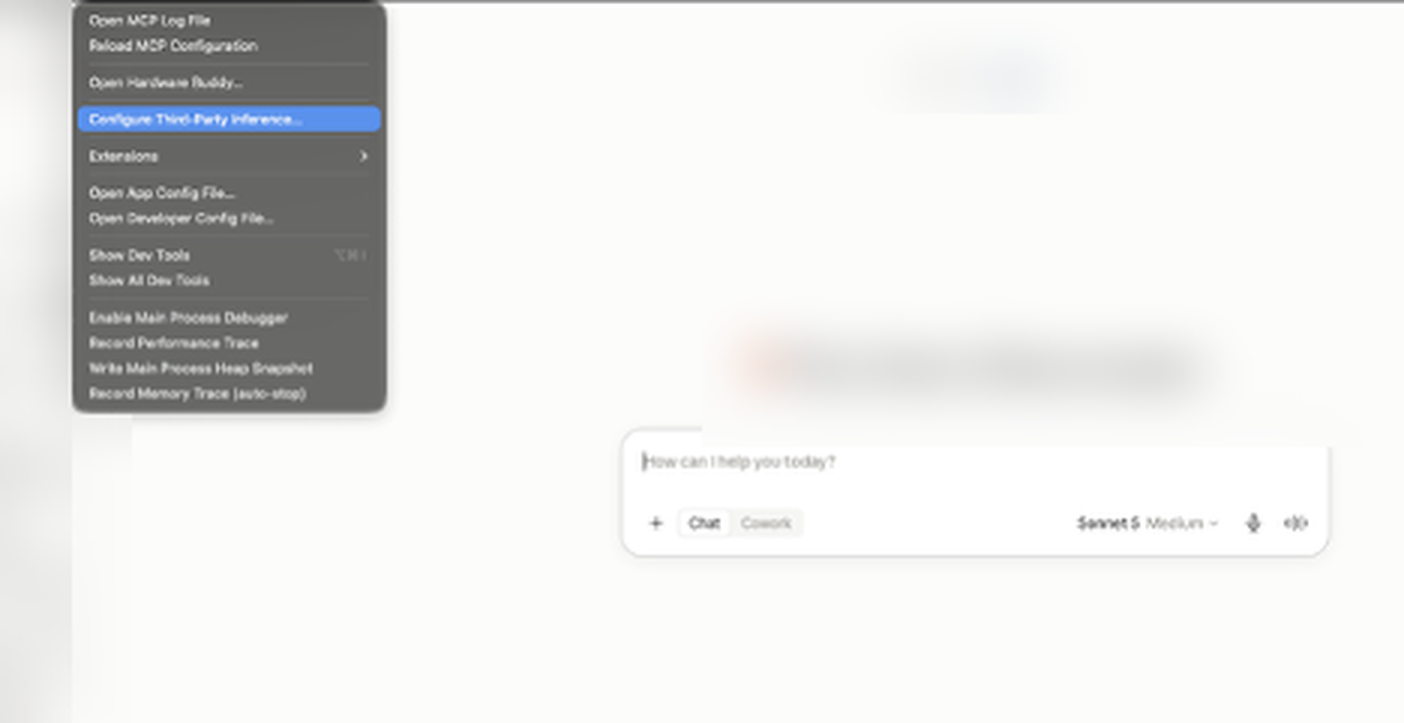
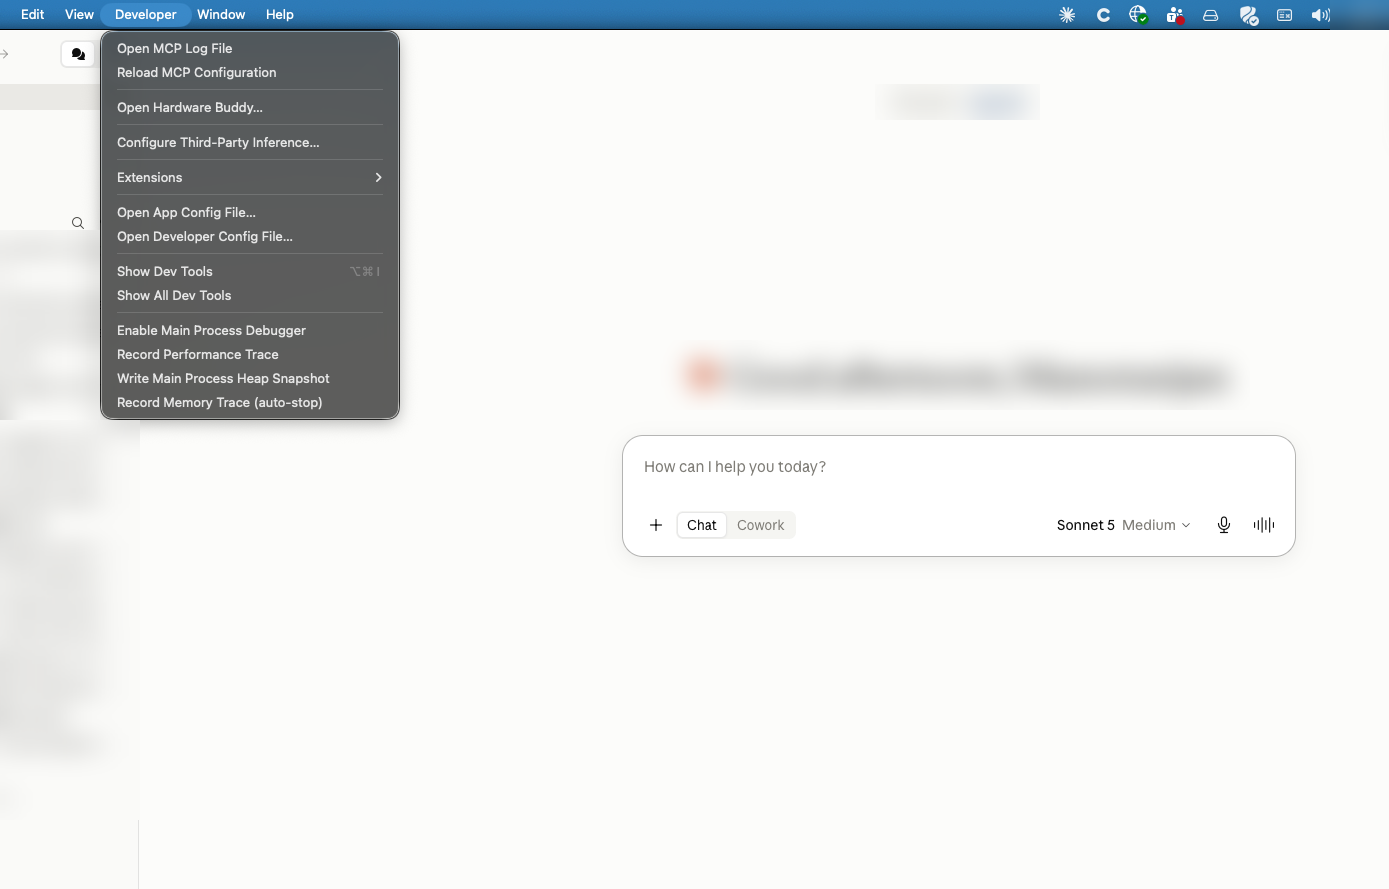
Replace Developer menu screenshot with a full-resolution capture
New source is 1389x889 with the menu at native 300px, so it downscales
sharply instead of being upscaled from ~105px. Blurred the greeting, plan
chip, sidebar conversation titles, and the menubar right edge, keeping every
blur clear of the menu panel. Alt text updated — the menu item is not
highlighted in this capture.

diff --git a/index.md b/index.md
@@ -278,7 +278,7 @@ No Anthropic seat licensing. No conversation data leaving the device. Token cons
 
 Third-party inference is behind a developer flag. In Claude Desktop: **Help → Troubleshooting → Enable Developer Mode**, then **Developer → Configure Third-Party Inference…**
 
-![Claude Desktop Developer menu with Configure Third-Party Inference highlighted](images/06-claude-desktop-developer-menu.png)
+![Claude Desktop Developer menu showing Configure Third-Party Inference](images/06-claude-desktop-developer-menu.png)
 
 ### Pick a credential kind
 
